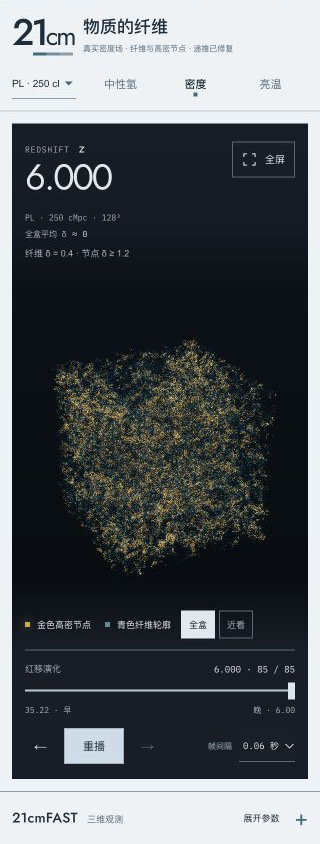
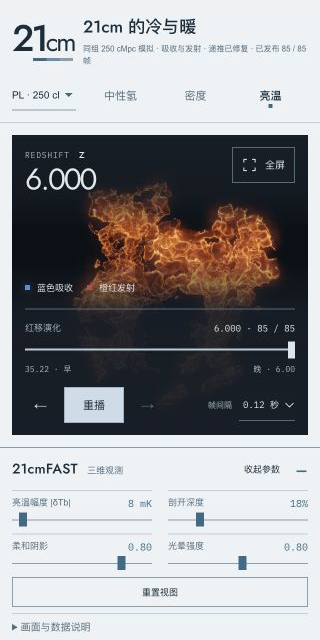
Hide cache progress and compact the viewer parameter dock

diff --git a/viewer-lab/cavity.css b/viewer-lab/cavity.css
@@ -30,7 +30,7 @@
   --content-width: 1660px;
   font-family: var(--font-body); color: var(--ink); background: var(--background);
 }
-.cavity-page { --sample-dock: 58px; min-width: 320px; min-height: 100dvh; background: var(--background); -webkit-font-smoothing: antialiased; }
+.cavity-page { --sample-dock: 39px; min-width: 320px; min-height: 100dvh; background: var(--background); -webkit-font-smoothing: antialiased; }
 ::selection { color: var(--surface); background: var(--accent); }
 .cavity-page :is(button, a, input, select, canvas, summary):focus-visible { outline: 2px solid var(--accent); outline-offset: 4px; }
 .cavity-page button { border-radius: 0; transition: color 150ms ease, background 150ms ease, border-color 150ms ease; }
@@ -137,35 +137,28 @@
 
 .sample-controls {
   position: fixed; z-index: 4; inset: auto 0 0; display: flex; flex-direction: column; max-height: 48dvh; overflow: hidden;
-  padding: 8px max(var(--page-pad), calc((100vw - var(--content-width)) / 2 + var(--page-pad))) max(8px, env(safe-area-inset-bottom));
+  padding: 4px max(var(--page-pad), calc((100vw - var(--content-width)) / 2 + var(--page-pad))) max(4px, env(safe-area-inset-bottom));
   background: var(--background); color: var(--ink); border-top: 1px solid var(--line-strong); color-scheme: light;
 }
-.sample-console-heading { display: flex; align-items: center; flex-shrink: 0; gap: 18px; min-height: 36px; }
-.sample-console-heading h2 { font: 500 15px/1.3 var(--font-display); letter-spacing: .2px; }
+.sample-console-heading { display: flex; align-items: center; flex-shrink: 0; gap: 18px; min-height: 30px; }
+.sample-console-heading h2 { font: 500 14px/1.3 var(--font-display); letter-spacing: .2px; }
 .sample-console-heading h2 span { margin-left: 8px; font: 10px/1.5 var(--font-body); color: var(--muted); letter-spacing: 0; }
 .sample-console-heading > p { padding-left: 18px; border-left: 1px solid var(--line); color: var(--muted); font-size: 9px; }
-.sample-toggle { display: inline-flex; align-items: center; justify-content: space-between; gap: 25px; min-height: 36px; margin-left: auto; padding: 4px 0 4px 14px; border: 0; background: transparent; color: var(--ink); font-size: 10px; white-space: nowrap; }
+.sample-toggle { display: inline-flex; align-items: center; justify-content: space-between; gap: 20px; min-height: 30px; margin-left: auto; padding: 2px 0 2px 12px; border: 0; background: transparent; color: var(--ink); font-size: 10px; white-space: nowrap; }
 .sample-toggle:hover { color: var(--accent); }
 #sample-toggle-mark { font: 400 22px/1 var(--font-display); color: var(--accent); }
-.sample-panel { min-height: 0; overflow-y: auto; overscroll-behavior: contain; padding-top: 10px; }
-.sample-parameters { display: grid; grid-template-columns: repeat(4, minmax(90px, 1fr)) 85px; gap: 18px; }
-.sample-parameters > label { min-width: 0; align-self: stretch; padding: 11px 0 6px; border-top: 1px solid var(--line); }
+.sample-panel { min-height: 0; overflow-y: auto; overscroll-behavior: contain; padding-top: 4px; }
+.sample-parameters { display: grid; grid-template-columns: repeat(4, minmax(90px, 1fr)) 75px; gap: 14px; }
+.sample-parameters > label { min-width: 0; align-self: stretch; padding: 6px 0 2px; border-top: 1px solid var(--line); }
 .sample-reset { border: 1px solid var(--line-strong); background: transparent; color: var(--ink); font-size: 10px; }
 .sample-reset:hover { background: var(--ink); color: var(--surface); border-color: var(--ink); }
 .sample-parameters > label { display: block; color: var(--muted); font-size: 10px; }
 .sample-controls output { float: right; color: var(--accent); font: 11px/1.5 var(--font-mono); font-variant-numeric: tabular-nums; }
-.sample-controls input { margin-top: 9px; }
-.sample-reset { align-self: stretch; padding: 9px 8px; }
+.sample-controls input { margin-top: 3px; }
+.sample-reset { align-self: center; min-height: 32px; padding: 6px; }
 .sample-controls label:has(input:disabled) { opacity: .4; }
-.sample-cache { display: flex; flex-wrap: wrap; align-items: center; gap: 8px 12px; margin-top: 13px; color: var(--muted); font: 9px/1.5 var(--font-mono); }
-.sample-cache > span { font-variant-numeric: tabular-nums; }
-.sample-cache progress { appearance: none; width: 100px; height: 2px; border: 0; background: var(--line); }
-.sample-cache progress::-webkit-progress-bar { background: var(--line); }
-.sample-cache progress::-webkit-progress-value { background: var(--accent); }
-.sample-cache progress::-moz-progress-bar { background: var(--accent); }
-.sample-cache button { border: 0; border-bottom: 1px solid var(--accent); background: transparent; color: var(--ink); padding: 0 0 2px; font-size: 9px; }
-.sample-cache.has-error > span { color: var(--red); }
-.sample-notes { margin-top: 12px; padding: 11px 0 5px; border-top: 1px solid var(--line); }
+.sample-cache-retry { margin-top: 8px; border: 0; border-bottom: 1px solid var(--accent); background: transparent; color: var(--ink); padding: 0 0 2px; font-size: 9px; }
+.sample-notes { margin-top: 6px; padding: 6px 0 2px; border-top: 1px solid var(--line); }
 .sample-notes summary { width: fit-content; color: var(--muted); cursor: pointer; font-size: 10px; }
 .sample-notes > div { display: grid; grid-template-columns: 1fr 1fr; gap: 25px; margin-top: 12px; }
 .sample-explainer, .sample-convention { color: var(--muted); font-size: 10px; line-height: 1.9; }
@@ -234,13 +227,11 @@
   .sample-console-heading h2 { font-size: 14px; }
   .sample-console-heading h2 span { margin-left: 5px; font-size: 9px; }
   .sample-console-heading > p { display: none; }
-  .sample-toggle { padding-left: 5px; font-size: 9px; gap: 15px; }
-  .sample-parameters { grid-template-columns: 1fr 1fr; gap: 8px 18px; }
-  .sample-parameters > label { padding: 9px 0 4px; font-size: 9px; }
+  .sample-toggle { min-height: 34px; padding-left: 5px; font-size: 9px; gap: 15px; }
+  .sample-parameters { grid-template-columns: 1fr 1fr; gap: 4px 16px; }
+  .sample-parameters > label { padding: 5px 0 1px; font-size: 9px; }
   .sample-controls output { font-size: 10px; }
-  .sample-reset { grid-column: 1/3; grid-row: auto; min-height: 32px; padding: 7px; font-size: 9px; }
-  .sample-cache { font-size: 8px; gap: 6px; }
-  .sample-cache progress { width: 55px; }
+  .sample-reset { grid-column: 1/3; grid-row: auto; min-height: 30px; padding: 5px; font-size: 9px; }
   .sample-notes > div { grid-template-columns: 1fr; gap: 8px; }
   .sample-loading.is-progress { bottom: 195px; max-width: calc(100% - 32px); }
   .sample-gap { padding: 140px 20px 190px; gap: 10px; }

diff --git a/viewer-lab/cavity.html b/viewer-lab/cavity.html
@@ -4,7 +4,7 @@
   <meta charset="utf-8"><meta name="viewport" content="width=device-width,initial-scale=1">
   <meta name="color-scheme" content="light"><title>21cm · 三维 Viewer</title>
   <link rel="preload" href="./assets/fonts/jost-latin-variable.woff2" as="font" type="font/woff2" crossorigin>
-  <link rel="stylesheet" href="./style.css"><link rel="stylesheet" href="./cavity.css?v=stage-layout-20261018-2">
+  <link rel="stylesheet" href="./style.css"><link rel="stylesheet" href="./cavity.css?v=compact-controls-20261018">
 </head>
 <body class="cavity-page">
   <header class="sample-header">
@@ -50,10 +50,9 @@
     <label>光晕强度 <output id="sample-bloom-value">0.80</output><input id="sample-bloom" aria-label="光晕强度" type="range" min="0" max="1.5" step="0.05" value="0.8"></label>
     <button class="sample-reset" id="sample-reset">重置视图</button>
     </div>
-    <div class="sample-cache" id="sample-cache" hidden><span id="sample-cache-status" role="status">准备缓存已发布红移序列…</span><progress id="sample-cache-progress" max="493" value="0" aria-label="全量缓存进度"></progress><button id="sample-cache-retry" hidden>重试缓存</button></div>
-    <details class="sample-notes"><summary>画面与数据说明</summary><div><p class="sample-explainer" id="sample-explainer">暖白界面勾出中性结构，剖开前侧观察内部空腔。赭红切缘标出剖切位置。</p><p class="sample-convention" id="sample-convention">辉光用于辨认结构，不表示真实发射光度或精确物理边界。</p></div><p class="sample-status" id="sample-status" role="status">读取本地真实快照…</p></details>
+    <details class="sample-notes"><summary>画面与数据说明</summary><div><p class="sample-explainer" id="sample-explainer">暖白界面勾出中性结构，剖开前侧观察内部空腔。赭红切缘标出剖切位置。</p><p class="sample-convention" id="sample-convention">辉光用于辨认结构，不表示真实发射光度或精确物理边界。</p></div><p class="sample-status" id="sample-status" role="status">读取本地真实快照…</p><button class="sample-cache-retry" id="sample-cache-retry" hidden>重试数据预载</button></details>
     </div>
   </footer>
-  <script type="module" src="./cavity.js?v=stage-layout-20261018-2"></script>
+  <script type="module" src="./cavity.js?v=compact-controls-20261018"></script>
 </body>
 </html>

diff --git a/viewer-lab/cavity.js b/viewer-lab/cavity.js
@@ -31,7 +31,7 @@ const controlsPreference='21cm:sample:controls-collapsed';
 function setControlsCollapsed(collapsed){
   $('sample-controls').classList.toggle('is-collapsed',collapsed);
   $('sample-panel').hidden=collapsed;
-  $('sample-parameters').hidden=collapsed;$('sample-cache').hidden=collapsed;
+  $('sample-parameters').hidden=collapsed;
   $('sample-toggle').setAttribute('aria-expanded',String(!collapsed));
   $('sample-toggle').setAttribute('aria-label',collapsed?'展开参数区':'收起参数区');
   $('sample-toggle-label').textContent=collapsed?'展开参数':'收起参数';
@@ -109,15 +109,10 @@ document.querySelectorAll('[data-framing]').forEach(button=>button.addEventListe
 }));
 
 function updateCacheStatus(){
-  if(!store||disposed||!frames[fieldKey])return;
-  const sequence=publishedSnapshots(frames[fieldKey],fieldKey),ready=store.resident(modelKey,sequence,fieldKey),total=sequence.length;
-  const verified=sequence.filter(s=>cachedKeys.has(volumeKey(modelKey,s,fieldKey))).length;
-  const progress=fieldSize(manifests?.[modelKey],fieldKey)>64?`缓存 ${verified} / ${total} · 内存 ${ready} 帧`:`预载 ${ready} / ${total}`;
-  $('sample-cache-status').textContent=`${cachedKeys.size===allTasks.length?`全部 ${allTasks.length} 个数据体已${persistent.enabled?'缓存':'核验（浏览器缓存不可用）'}`:`缓存 ${cachedKeys.size} / ${allTasks.length}`} · ${modelKey.toUpperCase()} ${preset().tab}${progress}${cacheError||fieldCacheError?' · 部分失败':''}`;
-  $('sample-cache-progress').max=allTasks.length;$('sample-cache-progress').value=cachedKeys.size;
-  $('sample-cache-retry').hidden=!(cacheError||fieldCacheError);
-  document.querySelector('.sample-cache').classList.toggle('has-error',!!(cacheError||fieldCacheError));
-  $('sample-cache-status').title=cacheError||fieldCacheError||(persistent.enabled?'全部文件保存在本地，浏览器按 SHA-256 持久缓存；原值内存预算 256 MiB，提前准备临近帧。':`本地数据可用；浏览器持久缓存不可用：${persistent.error}`);
+  if(disposed)return;
+  const error=cacheError||fieldCacheError;
+  $('sample-cache-retry').hidden=!error;
+  $('sample-cache-retry').title=error;
 }
 function prepareActiveField(force=false){
   const key=fieldKey,model=modelKey,sequence=publishedSnapshots(frames[key],key),sessionKey=`${model}/${key}`;

diff --git a/viewer-lab/README.md b/viewer-lab/README.md
@@ -22,7 +22,7 @@
 
 画面右上角“全屏”将三维画面与原有控制台一起放大。全屏内可拖动红移、上一帧/下一帧、播放/暂停、调整帧间隔，以及展开详细参数。点击“退出全屏”或按 Esc 返回；切换不重建播放器、不重置参数或相机。支持标准和 WebKit 全屏接口，受限的嵌入浏览器使用铺满窗口的布局。
 
-红移滑块、帧序号、播放/暂停、逐帧切换与帧间隔直接放在三维画面底部，全屏时保持相同位置。页面底部默认收起详细参数、缓存进度及数据说明。右侧“展开参数 / 收起参数”支持鼠标和键盘，收起不会打断播放。折叠偏好在本地保存，刷新后恢复；浏览器禁用偏好存储时仍可正常折叠。隐藏参数不进入键盘焦点顺序。画布按控制台实际高度调整，矮窗口中的详细参数可滚动；短画布自动精简顶部附加读数，保留红移与播放。画面与数据说明可单独展开。
+红移滑块、帧序号、播放/暂停、逐帧切换与帧间隔直接放在三维画面底部，全屏时保持相同位置。页面底部使用紧凑的参数行，默认收起详细参数与数据说明；不显示缓存计数和进度，后台预载与缓存照常运行，预载失败时可在数据说明中重试。右侧“展开参数 / 收起参数”支持鼠标和键盘，收起不会打断播放。折叠偏好在本地保存，刷新后恢复；浏览器禁用偏好存储时仍可正常折叠。隐藏参数不进入键盘焦点顺序。画布按控制台实际高度调整，矮窗口中的详细参数可滚动；短画布自动精简顶部附加读数，保留红移与播放。画面与数据说明可单独展开。
 
 界面沿用个人网页 `personal-archive` 的浅色主题：背景 `#edf2f5`、面板 `#e2eaf0`、文字 `#182e3b`、次级文字 `#526d7d`、细线 `#c0d0db`、操作色 `#356b83`。本地 Jost / IBM Plex Mono 字体及 SIL 授权、来源保存在 `assets/fonts/`。三维材质和数据色表独立于界面主题。
 
